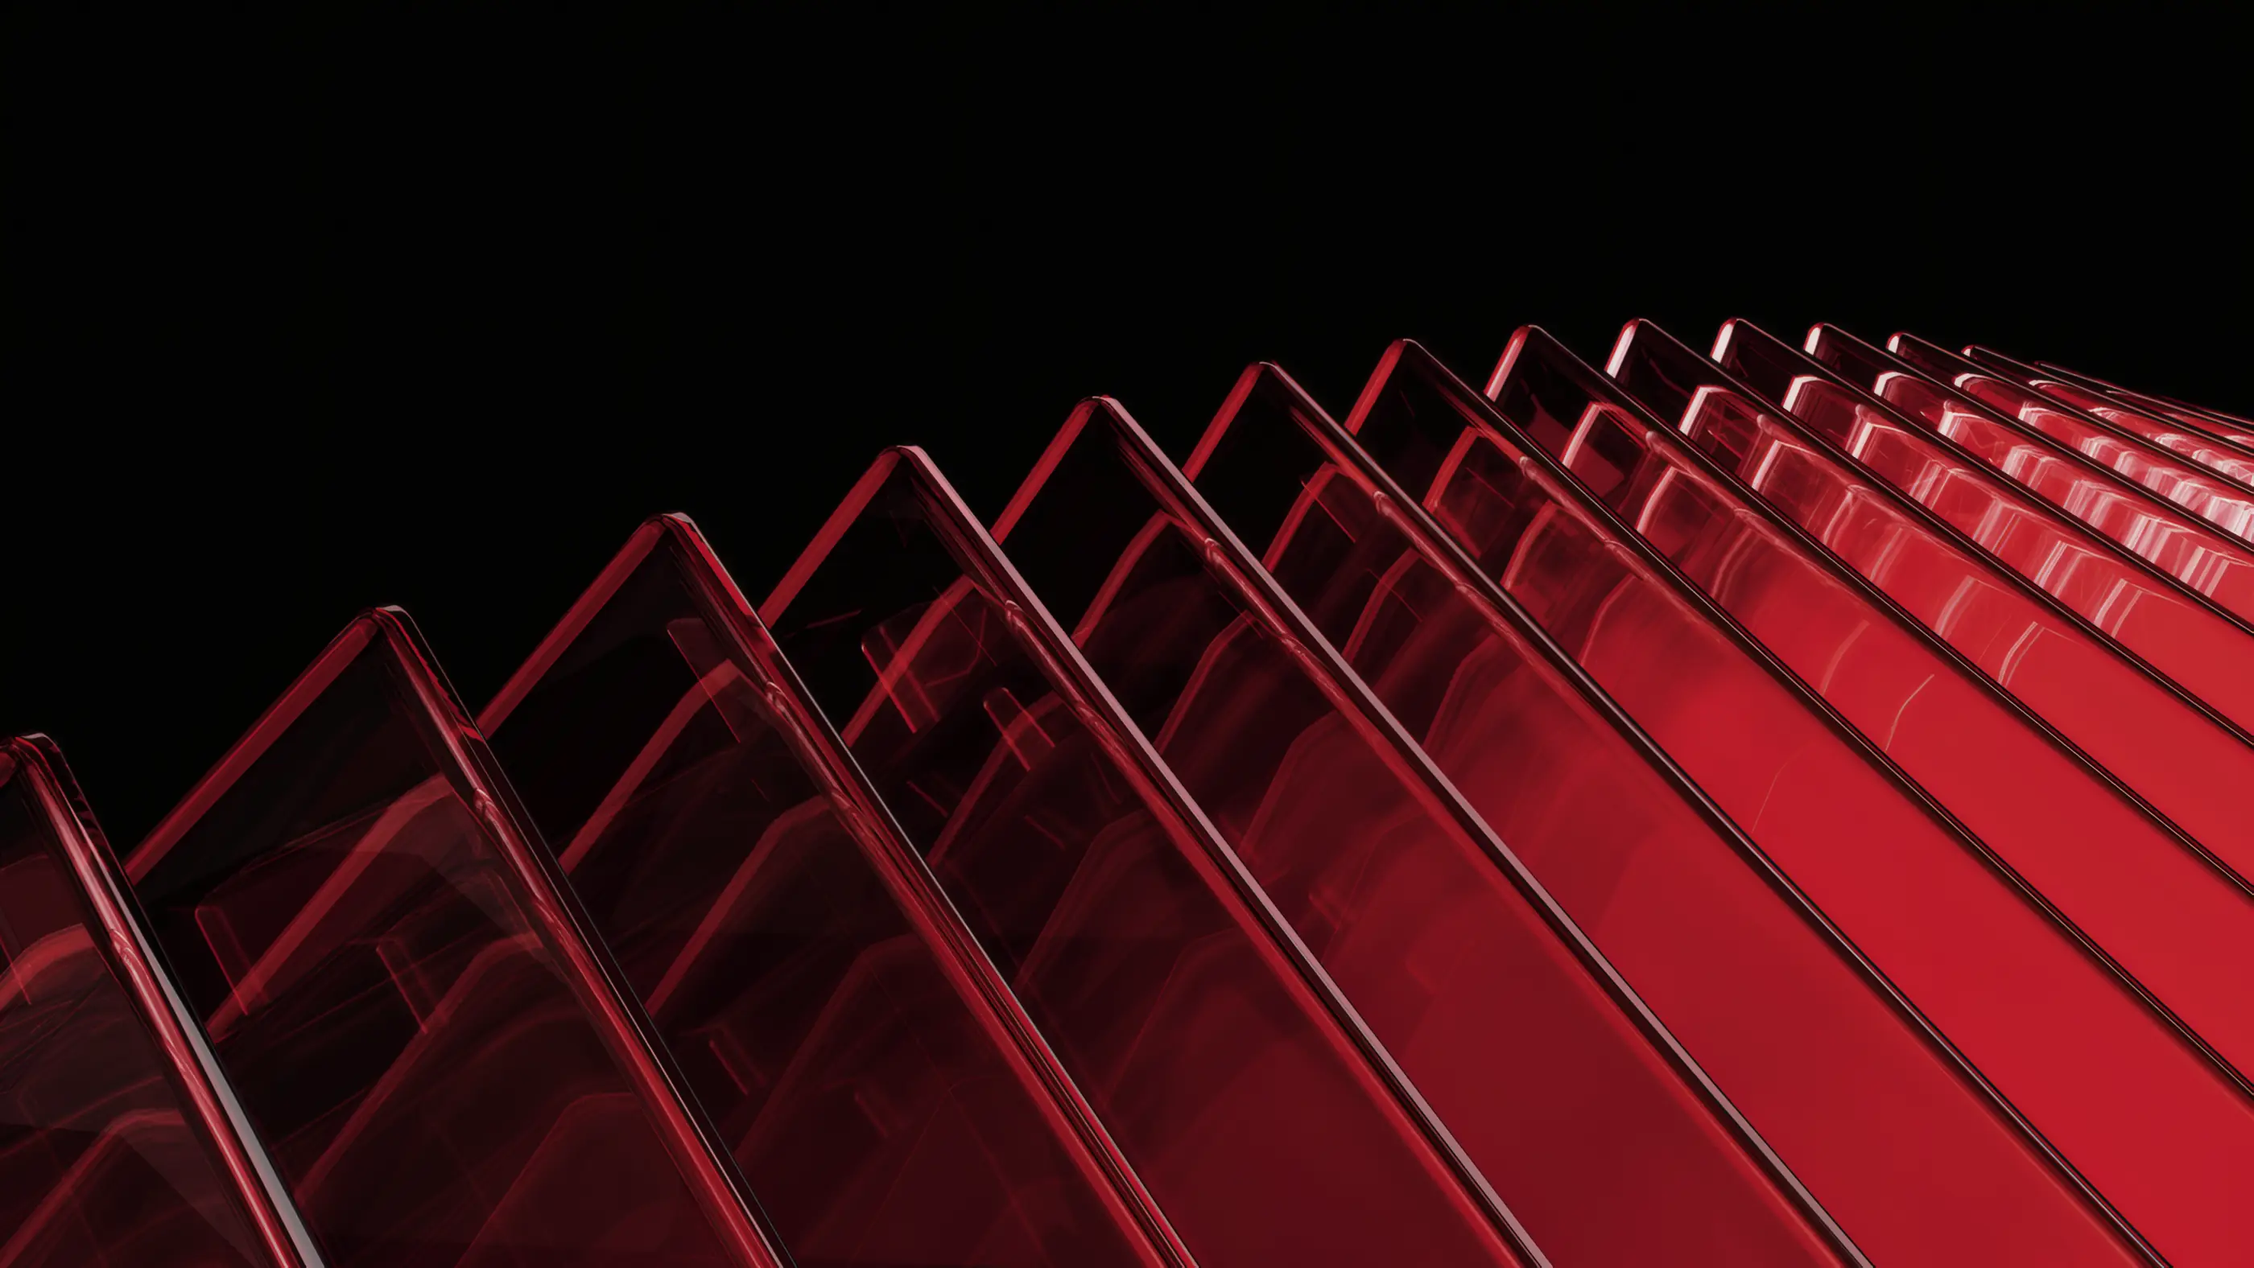
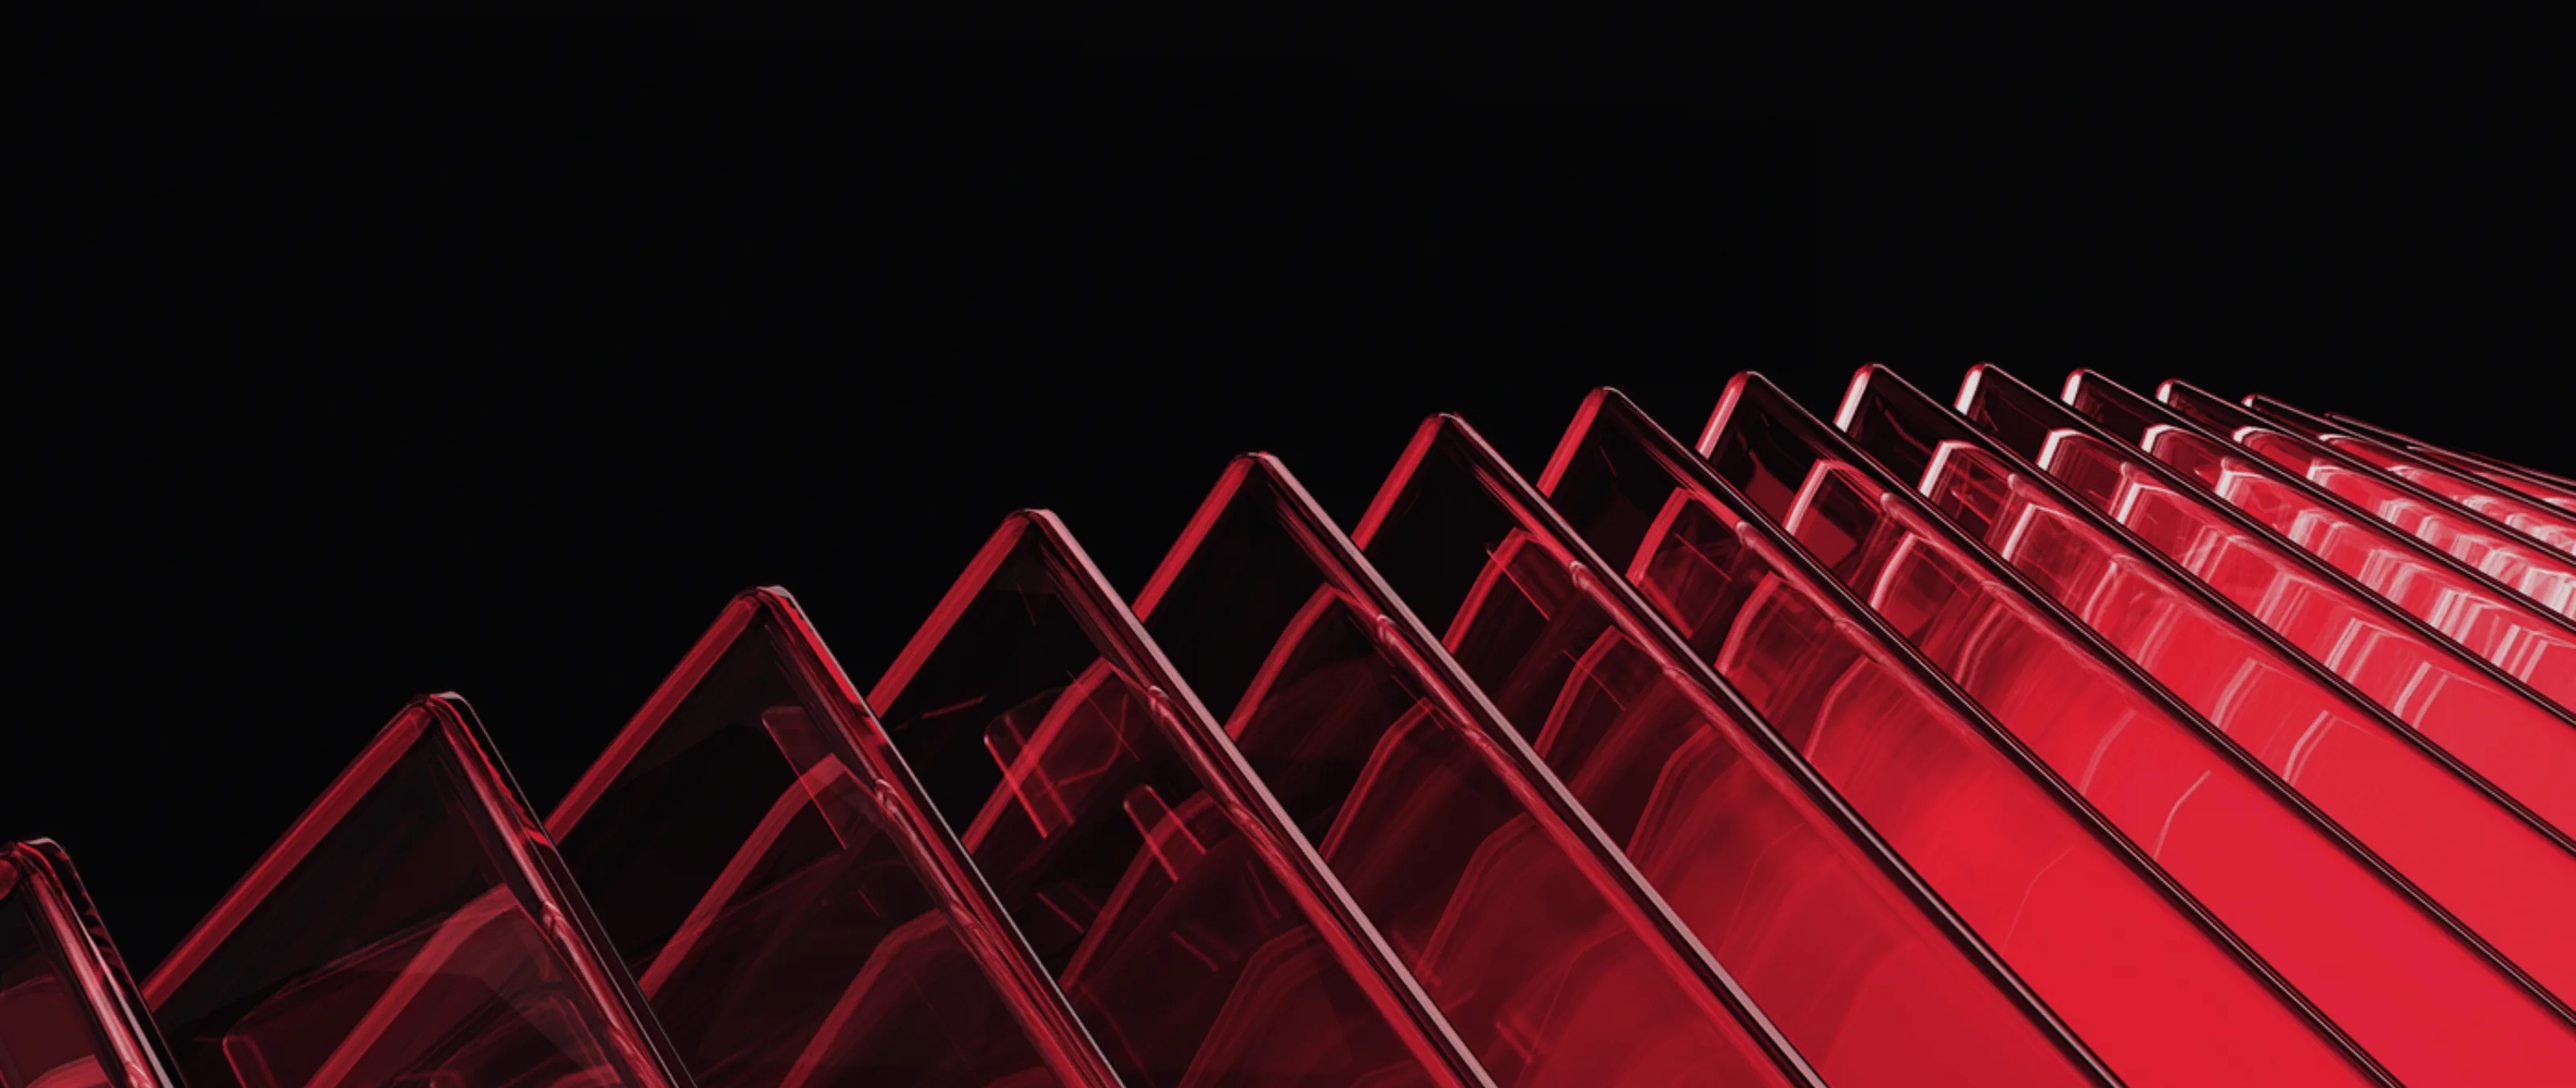
feat(halfred): new fins image (Paul's 4000px render) graded to the Halfred crimson (hue -6°, softer saturation, black at #050506), framed from the bottom

diff --git a/app/halfred.css b/app/halfred.css
@@ -294,7 +294,7 @@ body:has(main[data-brand="halfred"]) .side-grid { display: none; }
   /* Lueur rouge très légère sur toute la section, derrière les lames détourées. */
   .hr-banner { background: radial-gradient(90% 80% at 62% 78%, color-mix(in srgb, var(--hr-red) 16%, transparent), transparent 72%), radial-gradient(50% 40% at 20% 20%, color-mix(in srgb, var(--hr-red) 6%, transparent), transparent 70%), var(--background); }
   .hr-banner .hr-banner__art {
-    inset: auto 0 0 0; width: 100%; height: 74%; object-fit: cover; object-position: 60% 62%;
+    inset: auto 0 0 0; width: 100%; height: 82%; object-fit: cover; object-position: 60% 100%;
     mix-blend-mode: screen; /* détourage : le noir de l'image disparaît sur la lueur de la section */
     filter: blur(1.2px); /* très léger : masque l'agrandissement de l'image */
     mask-image: linear-gradient(#000, #000), linear-gradient(180deg, transparent, #000 22%, #000 94%, transparent);

diff --git a/components/halfred/about.tsx b/components/halfred/about.tsx
@@ -14,7 +14,7 @@ export default function About({ t }: { t: HalfredCopy }) {
   return (
     <section id="halfred" className="hr-section hr-banner">
       {fins
-        ? <Image src={fins} alt="" width={2800} height={1576} className="hr-banner__art" />
+        ? <Image src={fins} alt="" width={3200} height={1352} className="hr-banner__art" />
         : null}
       <div className="hr-wrap hr-about hr-guards">
         <BlurFade inView>
